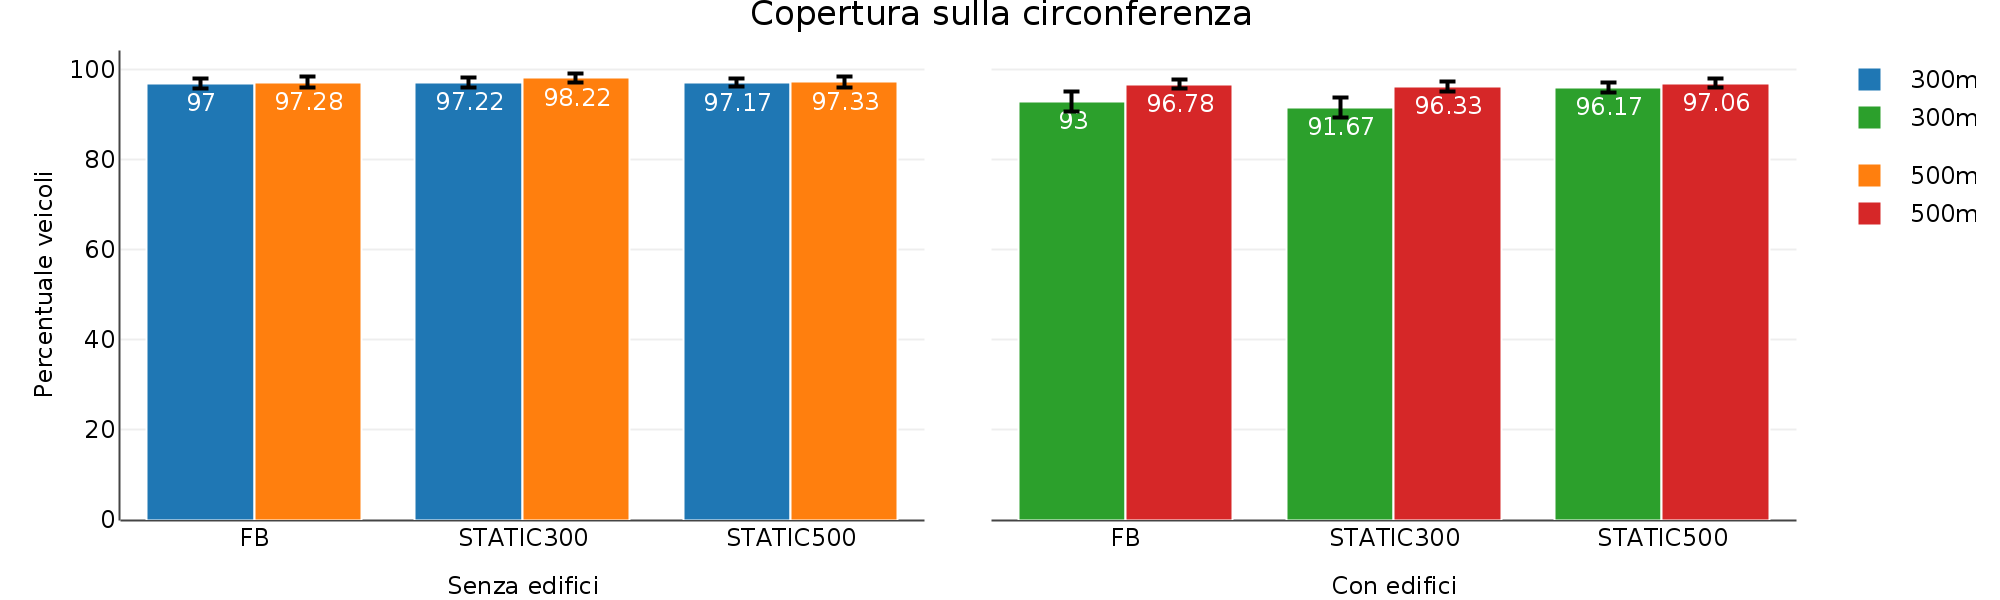
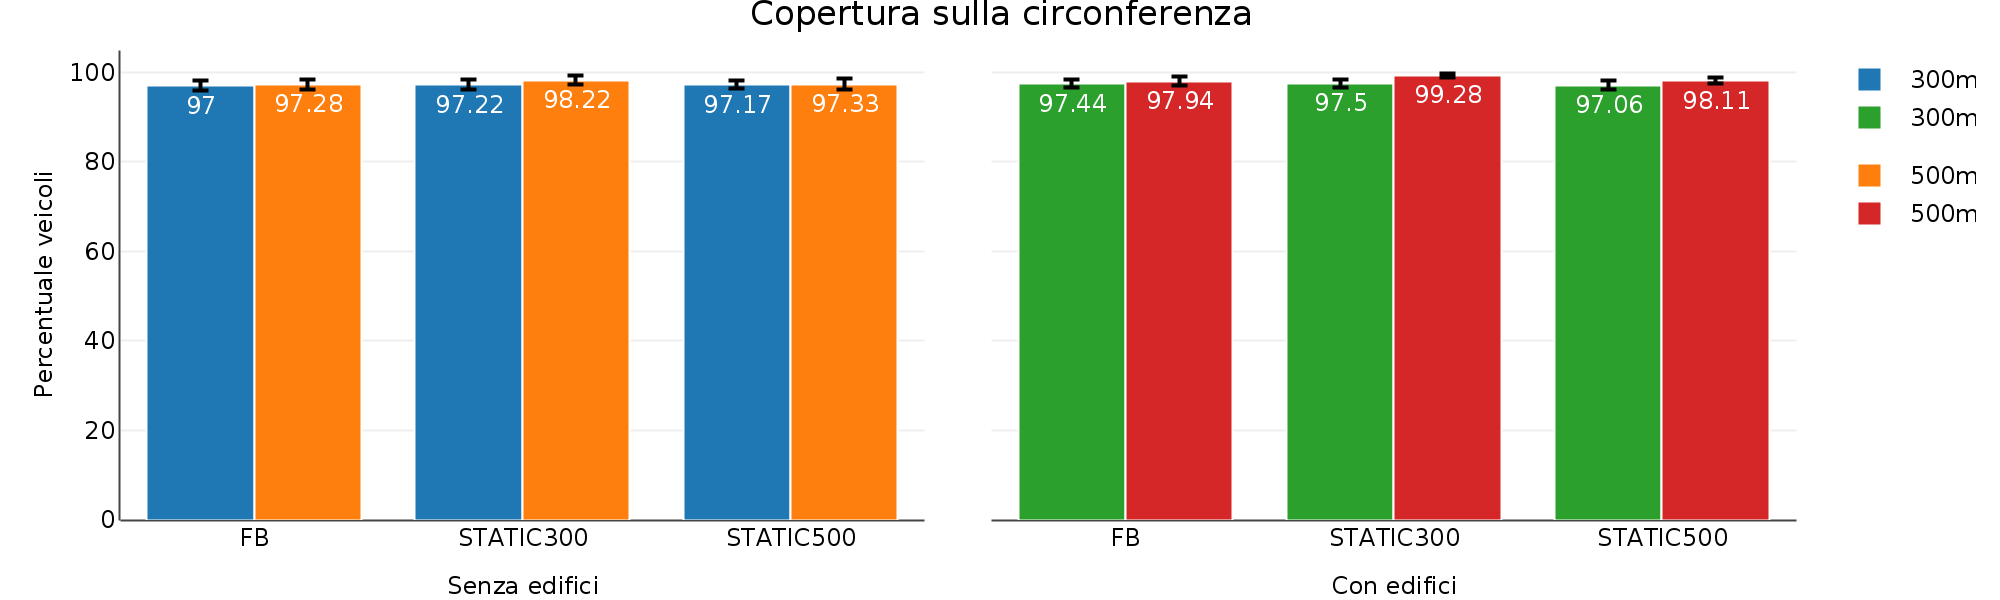
update risultati in scenario griglia

diff --git a/doc/thesis/chapters/simulazioni.tex b/doc/thesis/chapters/simulazioni.tex
@@ -9,7 +9,7 @@ Dopo aver illustrato il protocollo in esame e il modello di propagazione utilizz
 Il capitolo procederà, quindi, nel dettaglio dei diversi scenari affrontati illustrando
 le motivazioni che hanno portato alla loro realizzazione, definendone i parametri e motivando i risulati ottenuti.
 %
-\section{Configurazione a griglia}\label{sec:configurazione-griglia}
+\section{Scenario a griglia}\label{sec:configurazione-griglia}
 % \subsection{Panoramica}
 % Simulazioni codice barichello:
 %  - struttura simulazioni
@@ -79,21 +79,44 @@ eseguendono un numero pari a $50$ simulazioni per ogni configurazione.
 % \end{figure}
 %
 \subsection{Risultati}\label{sec:configurazione-griglia-risultati}
-I grafici in \figurename~\ref{fig:risultati-griglia-copertura} mostrano il cambiamento della copertura dei veicoli in totale e sulla circonferenza,
-dove si hanno rispettivamente $8064$ e $36$ veicoli, quando si vanno a considerare gli edifici.
-Nelle simulazioni rappresentato a sinistra
-Si può notare un generale calo della copertura causato dalla perdita di segnale per effetto dell'ombreggiatura,
-anche se non significativo; la differenza è leggermente maggiore considerando solo i veicoli sulla circonferenza.
-Analizzando invece il numero dei salti (\figurename~\ref{fig:risultati-griglia-salti}) necessari a raggiungere il perimetro della griglia
-si nota un aumento generale di questo valore, leggermente maggiore con raggio trasmissivo $300$ metri.
-Questo comporta che, mediamente, ci vogliono $1,104$ salti in più per raggiungere il perimetro se il raggio
-trasmissivo è di $300$m, mentre ce ne vogliono $0,571$ se è di $500$m.
-Il grafico in \figurename~\ref{fig:risultati-griglia-messaggi}) mostra un aumento del numero di messaggi
-di inoltro inviati, in media, del $17,9$\% nel caso del raggio trasmissivo di $300$m
-e del $163,9$\% nel secondo caso.
-Combinando questi risultati con i precenti, si denota che, nel caso degli edifici,
-un alto numero di pacchetti venga perso a causa della troppa attenuazione del segnale;
-infatti per coprire (circa) la stessa percentuale di veicoli è necessario un numero molto maggiore di inoltri.
+% I grafici in \figurename~\ref{fig:risultati-griglia-copertura} mostrano il cambiamento della copertura dei veicoli in totale e sulla circonferenza,
+% dove si hanno rispettivamente $8064$ e $36$ veicoli, quando si vanno a considerare gli edifici.
+% Nelle simulazioni rappresentato a sinistra
+% Si può notare un generale calo della copertura causato dalla perdita di segnale per effetto dell'ombreggiatura,
+% anche se non significativo; la differenza è leggermente maggiore considerando solo i veicoli sulla circonferenza.
+% Analizzando invece il numero dei salti (\figurename~\ref{fig:risultati-griglia-salti}) necessari a raggiungere il perimetro della griglia
+% si nota un aumento generale di questo valore, leggermente maggiore con raggio trasmissivo $300$ metri.
+% Questo comporta che, mediamente, ci vogliono $1,104$ salti in più per raggiungere il perimetro se il raggio
+% trasmissivo è di $300$m, mentre ce ne vogliono $0,571$ se è di $500$m.
+% Il grafico in \figurename~\ref{fig:risultati-griglia-messaggi}) mostra un aumento del numero di messaggi
+% di inoltro inviati, in media, del $17,9$\% nel caso del raggio trasmissivo di $300$m
+% e del $163,9$\% nel secondo caso.
+% Combinando questi risultati con i precenti, si denota che, nel caso degli edifici,
+% un alto numero di pacchetti venga perso a causa della troppa attenuazione del segnale;
+% infatti per coprire (circa) la stessa percentuale di veicoli è necessario un numero molto maggiore di inoltri.
+I grafici dalla \figurename~\ref{fig:risultati-griglia-copertura} alla~\ref{fig:risultati-griglia-messaggi}
+mostrano i risultati di questo gruppo di simulazioni.
+Come si può notare, la presenza degli ostacoli influisce molto poco sui quasi tutti i parametri presi in esame.
+La differenza sulla copertura totale è, in generale, inferiore o vicina all'$1\%$, tuttavia utilizando i protocolli FB e \statica{} si vede
+un leggero calo nel caso di raggio tramissivo pari a $300$m e un leggero incremento con $500$m, mentre
+è l'opposto con \staticb{}; la differenza è comunque minima per ipotizzare una causa di questo comportamento. % ?
+I veicoli sulla circonferenza (di raggio $1000$m) ottengono una copertura legggermente migliore
+(in media dello $0,5\%$), tranne nel caso di \staticb{} con raggio trasmissivo $500$m.
+Questo leggero aumento della copertura potrebbe essere dovuto a quello che gli autori del modello a ostacoli (~\cite{Carpenter:2015:OMI:2756509.2756512})
+chiamano ``L'effetto cena con amici'' (\textit{The Dinner Party effect}): la presenza di ostacoli come edifici
+può aumentare, localmente, la probabilità di tramissioni con successo, in quanto aumenterebbe il riuso delle spazio.
+Tale fenomeno può anche essere visto nel grafico in \figurename~\ref{fig:risultati-griglia-messaggi}
+dove nel caso di raggio trasmissivo pari a $500$m è presente un aumento, in media, del $5,6$\%
+nel numero di messaggi di intoltro ricevuti, mentre quelli inviati sono più simili al caso senza edifici.
+Anche il numero di salti necessari a raggiungere il perimetro della griglia rimane vicino
+e aumenta mediamente solo del $0,34\%$.
+Da tutto ciò si deduce che la presenza di edifici causa un aumento locale del traffico di messaggi
+ma il meccanimo di contesa e inoltro permette di mantenere limitata la propagazione di questi in avanti. % sicuro?
+Ciascun edificio ricopre un intero isolato (spazio interno racchiuso fra le strade) e si trova, per una differenza di pochi metri,
+a ridosso delle strade;
+la grandezza di questi edifici probabilmente blocca qualsiasi trasmissione fra due veicoli che si trovano
+agli estremi dell'isolato e, di conseguenza, limita la propagazione del messaggio all'interno del blocco  che viene ``forzato''
+a proseguire lungo la strada.
 %
 \begin{figure}[htbp]
 	\centering
